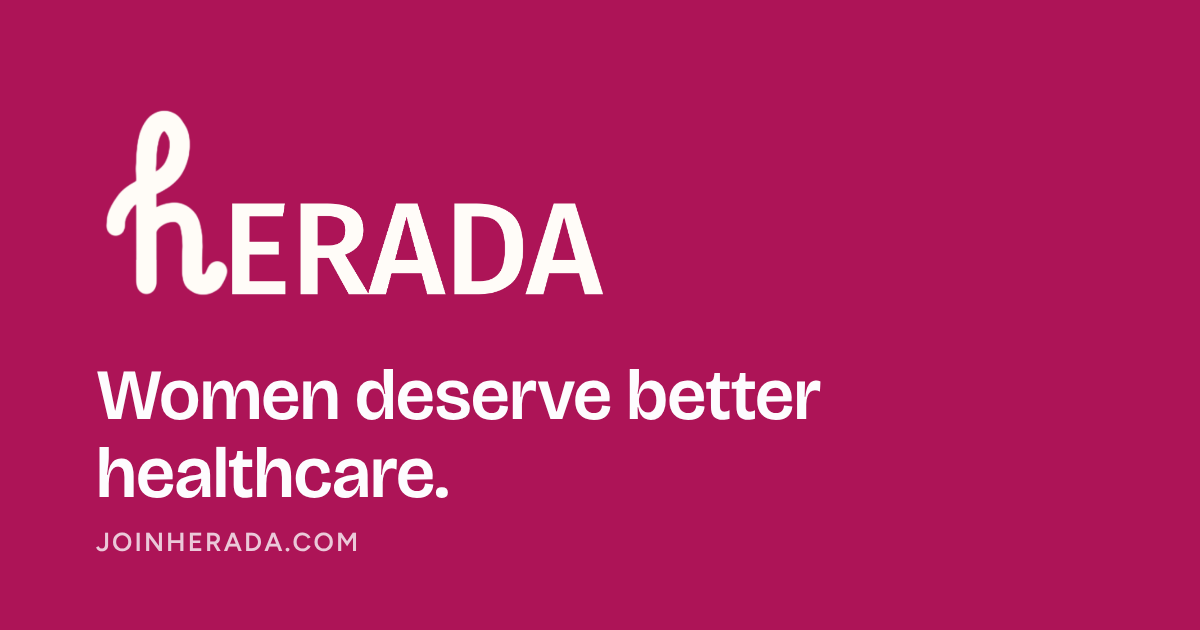
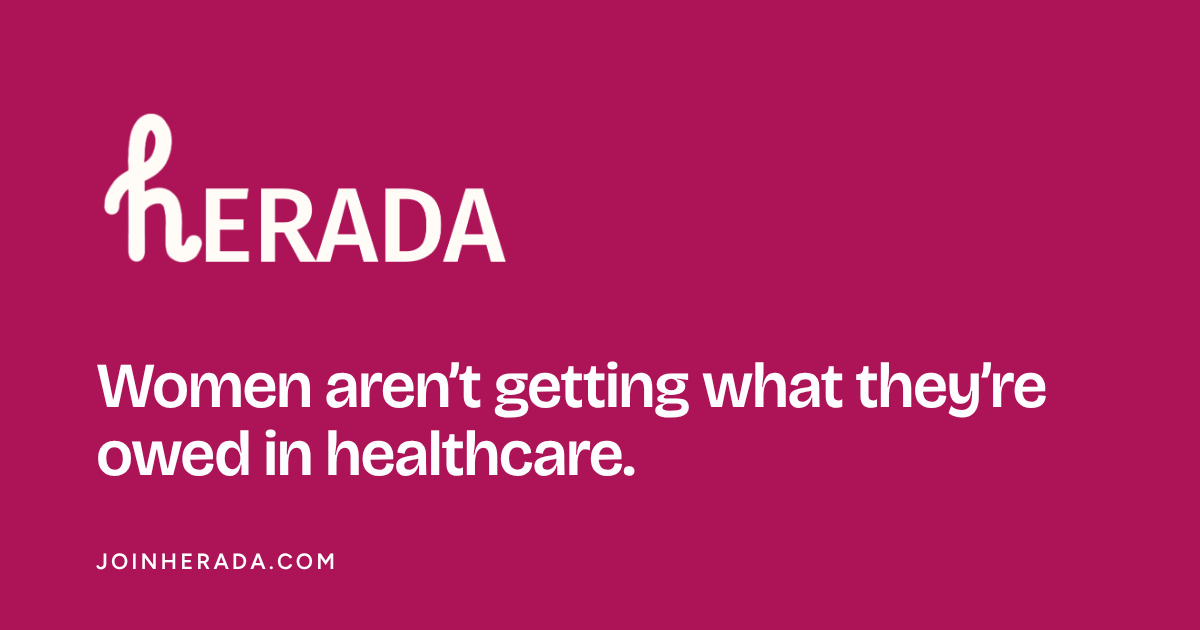
Say what Herada is now: a learning company
Home headline and lede from the Nov 15 brief, verbatim apart from the
lede's dash, which is a colon because site copy carries no em dashes. The
three tiles are the Women's Health Bible, the Rule-Out Checklist and the
Diagnostic Detour, each linking to its page. The share image is re-rendered
with the new headline.

Changed region(s): [[0.0617, 0.573, 0.8942, 0.8143], [0.0617, 0.181, 0.5242, 0.4825], [0.0617, 0.8444, 0.3083, 0.9048]]

diff --git a/site/index.html b/site/index.html
@@ -3,19 +3,19 @@
 <head>
   <meta charset="utf-8">
   <meta name="viewport" content="width=device-width, initial-scale=1">
-  <title>Herada – Women deserve better healthcare</title>
-  <meta name="description" content="Herada builds tools and guides that help women get clearer answers from the healthcare system, sooner.">
+  <title>Herada – Women aren’t getting what they’re owed in healthcare</title>
+  <meta name="description" content="Because nobody teaches it: not to women, and not to the clinicians treating them. Herada builds the learning for both.">
   <link rel="canonical" href="https://joinherada.com/">
   <meta name="theme-color" content="#AD1457">
   <meta property="og:site_name" content="Herada">
   <meta property="og:type" content="website">
-  <meta property="og:title" content="Women deserve better healthcare">
-  <meta property="og:description" content="Herada builds tools and guides that help women get clearer answers from the healthcare system, sooner.">
+  <meta property="og:title" content="Women aren’t getting what they’re owed in healthcare">
+  <meta property="og:description" content="Because nobody teaches it: not to women, and not to the clinicians treating them. Herada builds the learning for both.">
   <meta property="og:url" content="https://joinherada.com/">
   <meta property="og:image" content="https://joinherada.com/assets/img/og-default.png">
   <meta property="og:image:width" content="1200">
   <meta property="og:image:height" content="630">
-  <meta property="og:image:alt" content="Herada: women deserve better healthcare.">
+  <meta property="og:image:alt" content="Herada: women aren’t getting what they’re owed in healthcare.">
   <meta property="og:locale" content="en_US">
   <meta name="twitter:card" content="summary_large_image">
   <link rel="preconnect" href="https://fonts.googleapis.com">
@@ -40,8 +40,8 @@
   <main>
     <section class="hr-hero">
       <div class="hr-wrap">
-        <h1>Women deserve better healthcare.</h1>
-        <p class="hr-lede">Herada builds the evidence of how midlife women get misrouted between specialties, and the tools that shorten the detour.</p>
+        <h1>Women aren&rsquo;t getting what they&rsquo;re owed in healthcare.</h1>
+        <p class="hr-lede">Because nobody teaches it: not to women, and not to the clinicians treating them. Herada builds the learning for both.</p>
       </div>
     </section>
 
@@ -51,13 +51,13 @@
         <p class="hr-note">We&rsquo;ve changed direction.<br>What comes next is being built now.</p>
         <p class="hr-kicker">The projects</p>
         <div class="hr-tiles">
-          <a class="hr-tile" href="/projects/the-ledger/#tested">
+          <a class="hr-tile" href="/bible/">
+            <p class="hr-status">Reviewing</p>
+            <h2>The Women&rsquo;s Health Bible</h2>
+          </a>
+          <a class="hr-tile" href="/projects/rule-out-checklist/">
             <p class="hr-status">Reviewing</p>
             <h2>Rule-Out Checklist</h2>
-          </a>
-          <a class="hr-tile" href="/projects/the-ledger/">
-            <p class="hr-status">Polishing</p>
-            <h2>The Ledger</h2>
           </a>
           <a class="hr-tile" href="/projects/diagnostic-detour/">
             <p class="hr-status">Reviewing</p>
@@ -73,7 +73,7 @@
       <nav aria-label="Footer">
         <a href="mailto:joinherada@gmail.com">joinherada@gmail.com</a>
         <a href="https://www.instagram.com/joinherada">Instagram</a>
-        <a href="/registry/">Registry</a>
+        <a href="/learn/">Learn</a>
         <a href="/privacy/">Privacy</a>
       </nav>
       <p class="hr-about">Solo founder. Evidence published, never sold. Nothing you enter leaves your device.</p>
